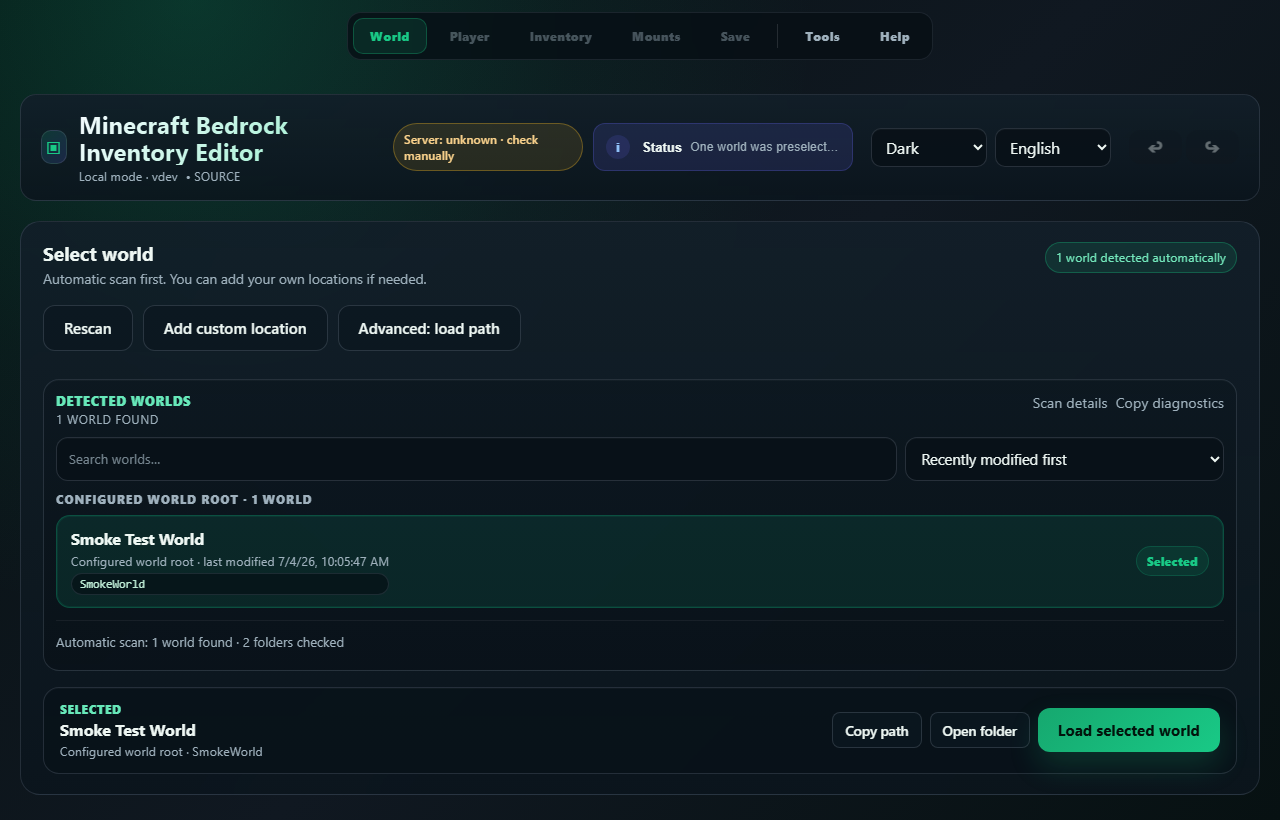
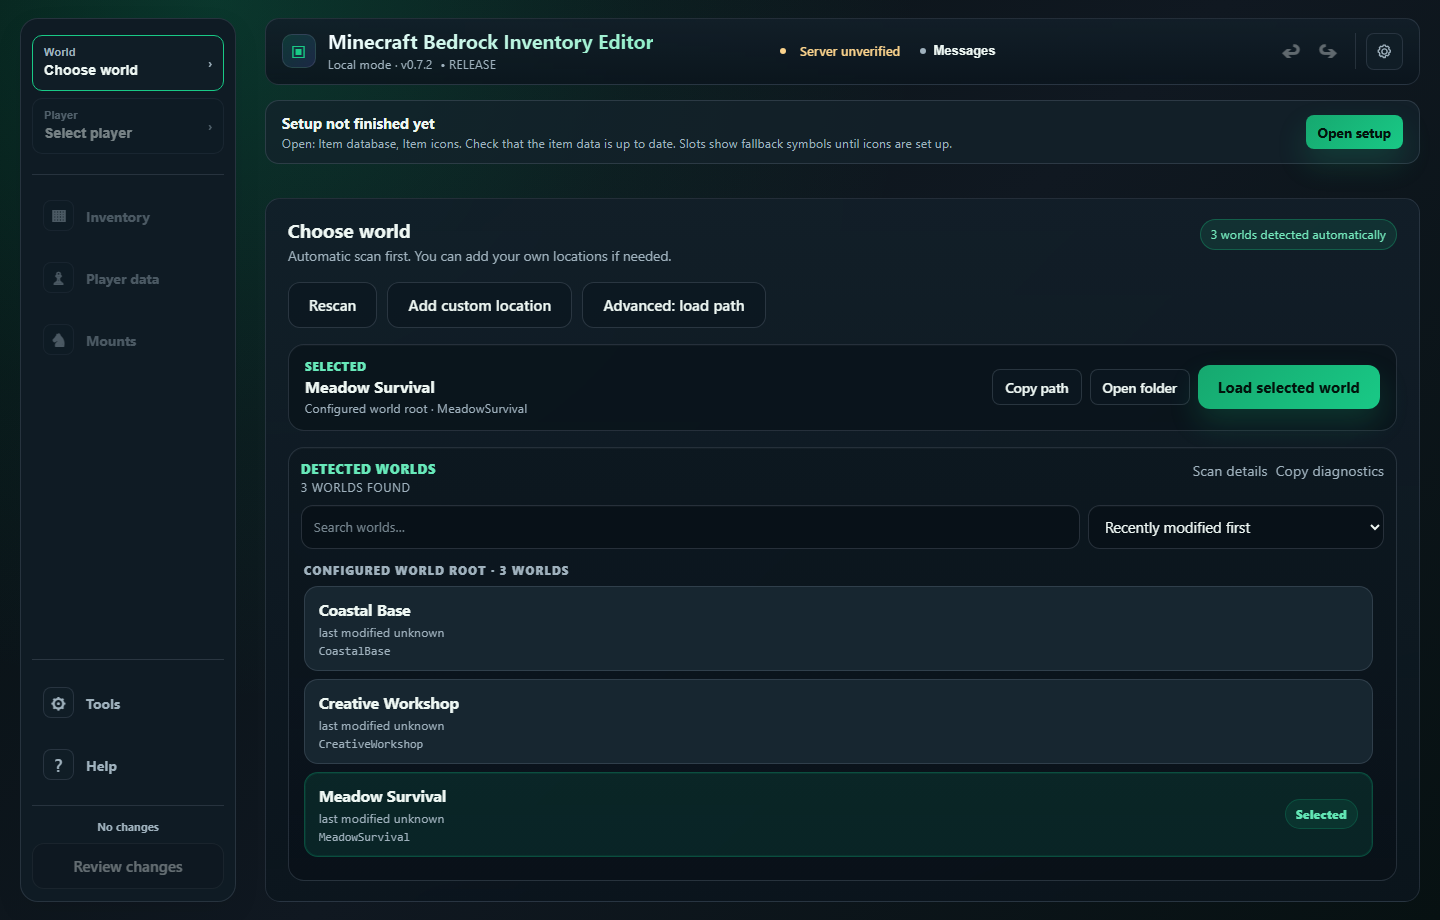
Refresh README screenshots for the Studio layout

diff --git a/README.de.md b/README.de.md
@@ -16,6 +16,8 @@ Dies ist ein inoffizielles Community-Projekt. Es ist weder mit Mojang Studios od
 
 Der Editor ist für die lokale Nutzung und vertrauenswürdige Heimnetze gedacht. Stelle ihn nicht direkt ins öffentliche Internet.
 
+Studio-Layout mit Beispieldaten, englischer Oberfläche und integrierten Ersatzsymbolen:
+
 [![Weltauswahl und Sicherheitsstatus](docs/assets/editor-overview.png)](docs/assets/editor-overview.png)
 
 [![Beispielinventar](docs/assets/editor-inventory.png)](docs/assets/editor-inventory.png)

diff --git a/README.md b/README.md
@@ -16,6 +16,8 @@ This is an unofficial community project. It is not affiliated with, endorsed by,
 
 The editor is intended for local use and trusted home networks. Do not expose it directly to the public internet.
 
+Studio layout with example data, an English interface, and built-in placeholder icons:
+
 [![World selection and safety status](docs/assets/editor-overview.png)](docs/assets/editor-overview.png)
 
 [![Example inventory](docs/assets/editor-inventory.png)](docs/assets/editor-inventory.png)
